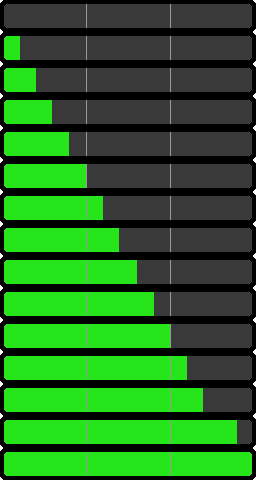
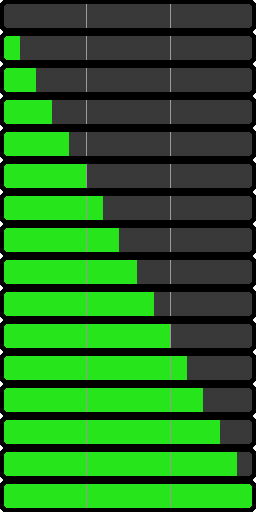
Fix: Bar photo

diff --git a/antenna.py b/antenna.py
@@ -38,7 +38,7 @@ wvsImg = pg.transform.scale(wvsImg, (531, 1062))
 srnImg = pg.transform.scale(srnImg, (360, 500))
 prgImg = pg.transform.scale(prgImg, (300, 270))
 cldImg = pg.transform.scale(cldImg, (100, 100))
-barImg = pg.transform.scale(barImg, (333, 625))
+barImg = pg.transform.scale(barImg, (333, 665))
 winImg = pg.transform.scale(winImg, (384, 96))
 
 def Draw(level, sublevel, limits, vel, fg):
